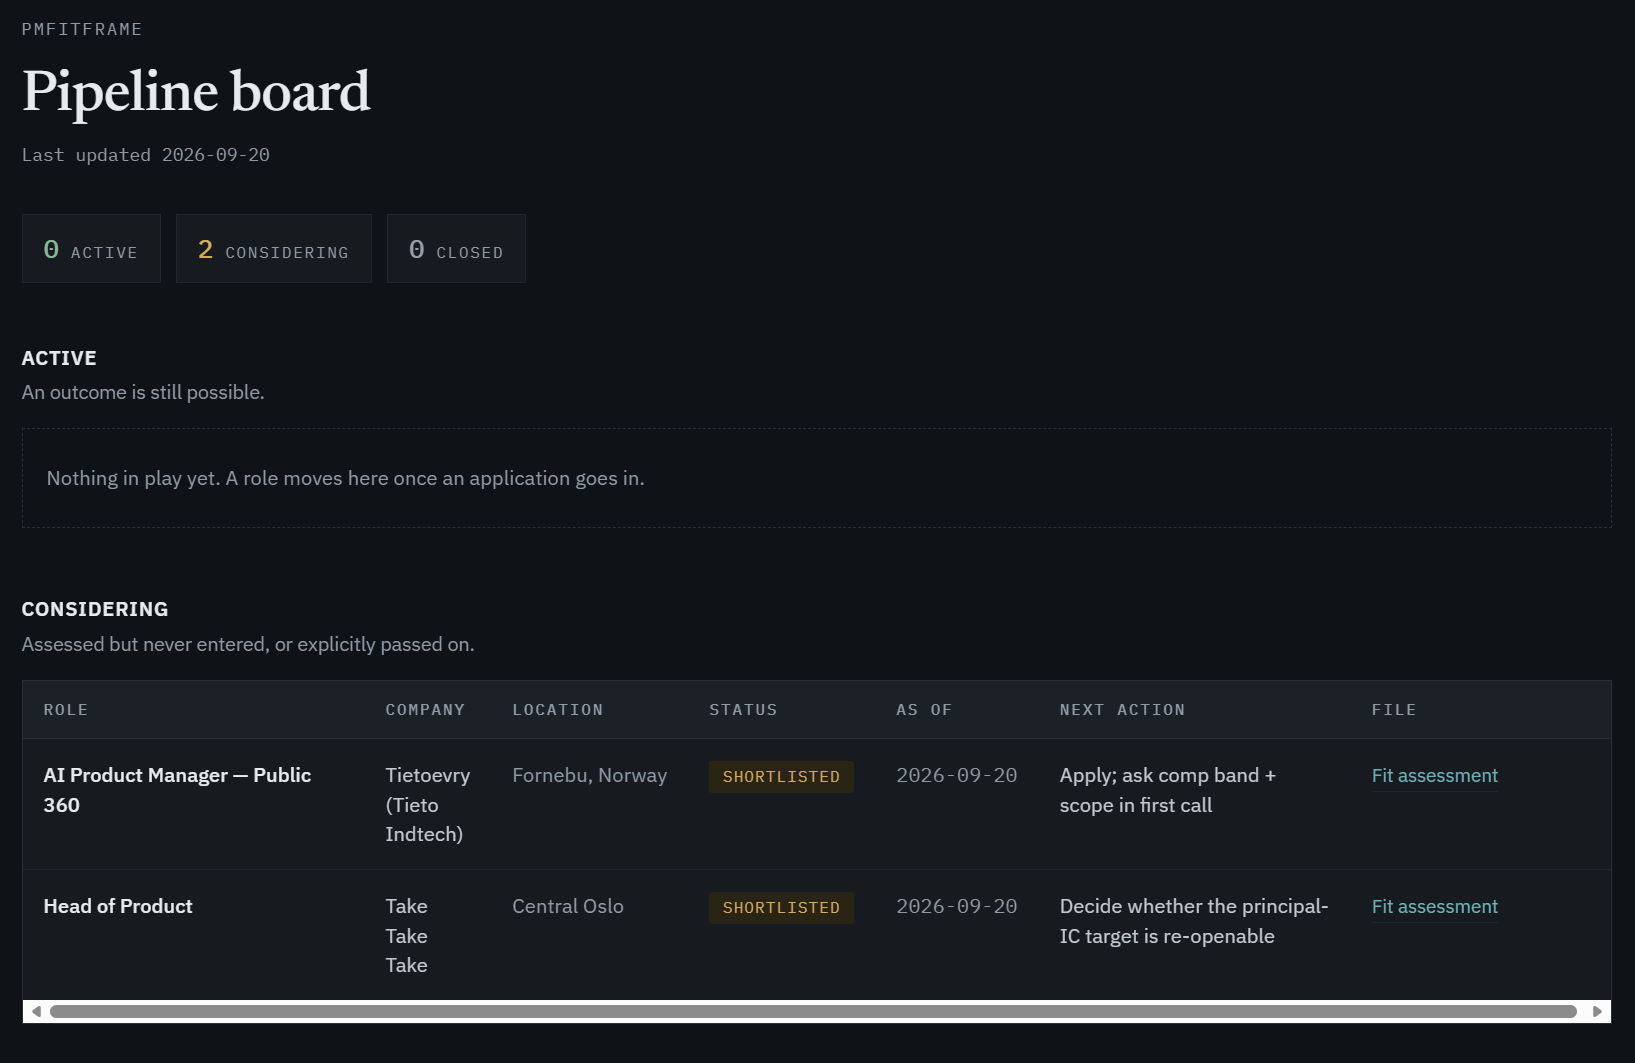
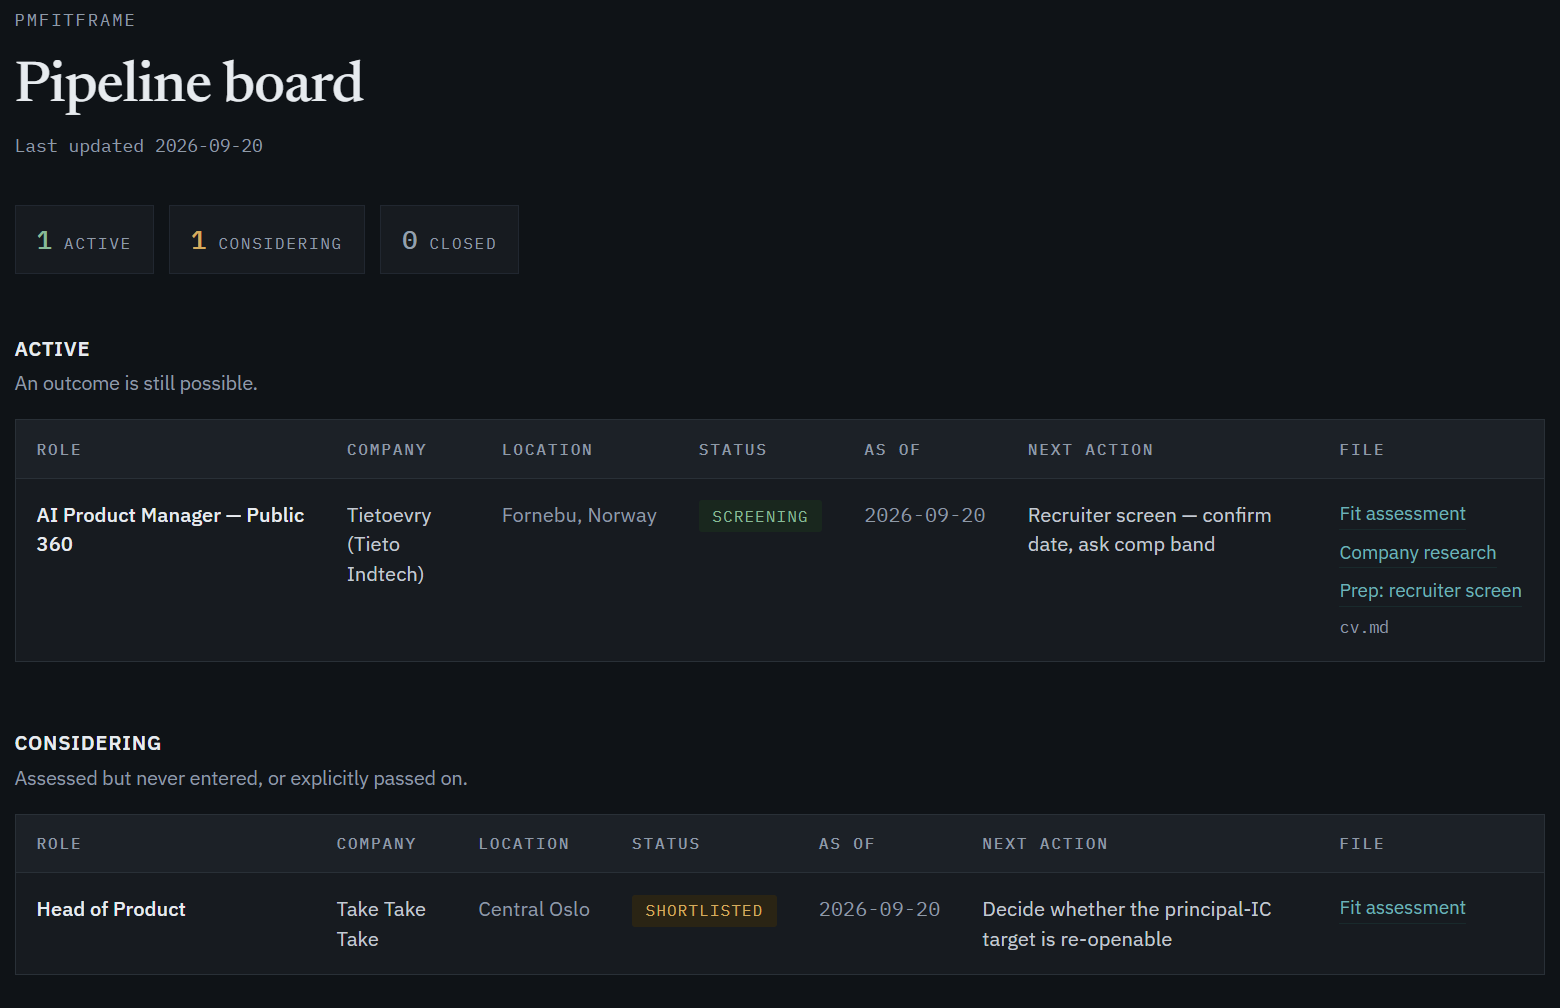
update readme, add screenshots

diff --git a/README.md b/README.md
@@ -1,8 +1,20 @@
 # PMFitFrame
 
-A Claude Code project that runs a technical job search end to end: it reads your CV once, screens roles against what you actually said you want, writes the assessment, tailors the CV, drafts the letter, preps the interview, and keeps a pipeline board you can share as a link.
+PMFitFrame is a Claude Code assistant which supports PMs in the pursuit of their next role.
 
-It is not a chatbot that gives job search advice. It is a set of skills with hard rules, a state directory on disk, and a strong bias against telling you what you want to hear.
+
+
+
+
+
+
+
+
+
+All it takes is to give it your CV, you then help it to quickly establish your preferences and competencies (according to Ravi Mehta framework) and from then on it scales  your job pursuit. 
+
+It screens roles against what you actually said you want, writes honest role fit assessment, tailors the CV, drafts the letters, preps you the interview, and keeps a pipeline board published as claude html artifact to keep you organized.
+
 
 <!-- SCREENSHOT: the pipeline board artifact, full page -->
 ![Pipeline board](docs/screenshots/01-pipeline-board.png)
@@ -39,13 +51,15 @@ This project is built to fail differently:
    ```
    It extracts the text and saves `pm-profile/cv.md` plus the original.
 5. **Review your competencies.** The system analyzes your CV against the Ravi Mehta framework (12 competencies across 4 areas), presents its findings, and asks you to validate or adjust. Based on your CV + demonstrated competencies, it deduces your seniority level. This builds `pm-profile/competencies.md` (with both your level and competencies assessment).
-6. **Paste a job description.** You get a fit assessment grounded in your level + competencies, a published page, and a pipeline entry.
+And that's the whole onboarding!
 
-That is the whole onboarding. Everything else is optional depth.
-
-<!-- SCREENSHOT: first session — the welcome line, then the CV intake summary -->
+From then on you are taken through the options:
+<!-- SCREENSHOT: main menu-->
 ![First session](docs/screenshots/02-first-session.png)
 
+Where Building application materials presents you with following:
+<!-- SCREENSHOT: Build application materials -->
+![First session](docs/screenshots/02-first-session-2.png)
 ---
 
 ## How a session starts
@@ -60,15 +74,6 @@ A `SessionStart` hook (`.claude/boot.sh`) checks `pm-profile/` in shell **before
 - `competencies.md` — your seniority level (deduced by `competencies` skill based on CV + demonstrated competencies) and your 12-competency assessment against the Ravi Mehta framework (created by `competencies` skill after `cv-intake`)
 - `preferences.md` — your comp floor, role preferences, deal-breakers (filled in with you, optional)
 
-
-```
-1. Check active job pipeline (publishes the board)
-2. Evaluate given roles against their profile, preferences and competencies
-3. Research a company
-4. Tailor resume for a specific role
-5. Write a cover letter for a specific role
-6. Prep for an upcoming interview
-```
 
 A bare number still works if you type one, and so does "where do things stand", "should I apply to this", or a pasted posting.
 
@@ -115,29 +120,41 @@ Eight skills in `.claude/skills/`. Six are menu options; `cv-intake` fires whene
 What using this actually looks like, in order:
 
 ```
-paste a Clojure role          → verdict: do not apply. No AI/ML in scope (your stated
-                                 deal-breaker) and no functional-JVM experience against a
-                                 hard requirement. Closed, with the reasoning kept.
+paste a Principal PM posting   → verdict: do not apply. The role is 70% delivery
+at a Series B fintech            management against a stated deal-breaker, and the
+                                 scope reads a level below the title. Closed, with
+                                 the reasoning kept.
 
-paste an AI engineering role   → verdict: apply, but in this order — ask for the salary
-                                 range before building the demo they require, because the
-                                 demo costs two weeks and comp is the one gap effort
-                                 cannot close.
+paste a Group PM posting at    → verdict: apply. Strong on product strategy and
+an AI infrastructure company     customer insight; the honest gap is managing
+                                 managers. Lead with the platform re-architecture
+                                 and the 0→1 launch, not headcount.
 
-"adjust my cv and write the    → tailored CV, letter, and the range email. The letter's
- cover letter"                   claim about a demo you had not built yet gets removed,
-                                 with a note saying what to add once it exists.
+"research them before I        → company-product-analysis.md: what they actually
+ write anything"                 sell, who they lose deals to, and why this role
+                                 exists now. Published as its own page.
 
-"I sent the range email"       → status advances, board refreshes.
+"tailor the cv and write the   → tailored CV leading with platform and 0→1 work,
+ cover letter"                   and a letter that names the people-management gap
+                                 instead of writing around it. A line claiming P&L
+                                 ownership gets cut — your CV does not show it.
 
-"they can meet my expectations,→ assessment updated (and the wrong call in it named as
- HR chat soon"                   wrong), prep doc written and published, status to
-                                 Screening.
+"applied"                      → role file created, status Applied, board refreshes.
 
-"run the mock interview"       → one question at a time, graded, rebuilt in your voice.
+"recruiter screen Thursday"    → status to Screening, prep doc written and published:
+                                 questions to expect, questions to ask, each one
+                                 traceable to a page in the question book.
+
+"the band is above my floor"   → assessment updated, and the earlier "comp is the
+                                 gap" call named as wrong rather than quietly edited.
+
+"run the mock interview"       → one question at a time, graded against the bar for
+                                 your level, rebuilt in your voice.
 ```
 
-The through-line: it sequences work by cost, tells you when your own stated preferences rule something out, and records what it got wrong instead of quietly editing history.
+The through-line: it screens against the preferences you actually stated, sequences the
+expensive work behind the cheap answer, refuses to write what your CV does not support,
+and records what it got wrong instead of quietly editing history.
 
 <!-- SCREENSHOT: a fit assessment artifact, showing the verdict block and the gap table -->
 ![Fit assessment](docs/screenshots/03-fit-assessment.png)
@@ -235,25 +252,3 @@ Reads and writes to `pm-profile/` and `job-pipeline/` are pre-allowed, so the wo
 
 **Recalibrate how claims are weighted.** `pm-profile/competencies.md` holds self-rated pillars plus calibration notes, for example "lead with inference and serving, not reliability". Assessments obey those notes.
 
----
-
-## Honest notes
-
-- **The artifacts are the interface.** Pipeline state is deliberately unavailable in the terminal. If that sounds annoying, it is the point: a retyped table in scrollback goes stale the moment anything changes.
-- **A cover letter is a cold-channel tool.** Where a warm introduction exists, the letter is the weaker path and the skill says so rather than overselling itself.
-- **Prep docs cite the book, not memory.** Interview questions and frameworks come from the extracted books in `interview-prep/docs/` with page numbers, so you can check them. The shipped book is free (*The Heap Book of Questions*); the paid guides this project was originally built on are not included, and the quality of the prep tracks the quality of the book you put in.
-- **A narrow profile produces a thin pipeline.** If your preferences encode a hard comp floor and a domain requirement, most roles will be screened out, and the board will look empty. That is the filter working, not the assistant idling.
-
----
-
-## Screenshots to add
-
-Drop images at these paths and the README picks them up:
-
-| Path | What to capture |
-| --- | --- |
-| `docs/screenshots/01-pipeline-board.png` | The pipeline board artifact, full page |
-| `docs/screenshots/02-first-session.png` | A fresh session: welcome line, then the CV intake summary |
-| `docs/screenshots/03-fit-assessment.png` | A fit assessment page: verdict block and gap table |
-| `docs/screenshots/04-interview-prep.png` | A prep page at phone width |
-| `docs/screenshots/05-mock-interview.png` | The live mock: a question, an answer, the grading |
